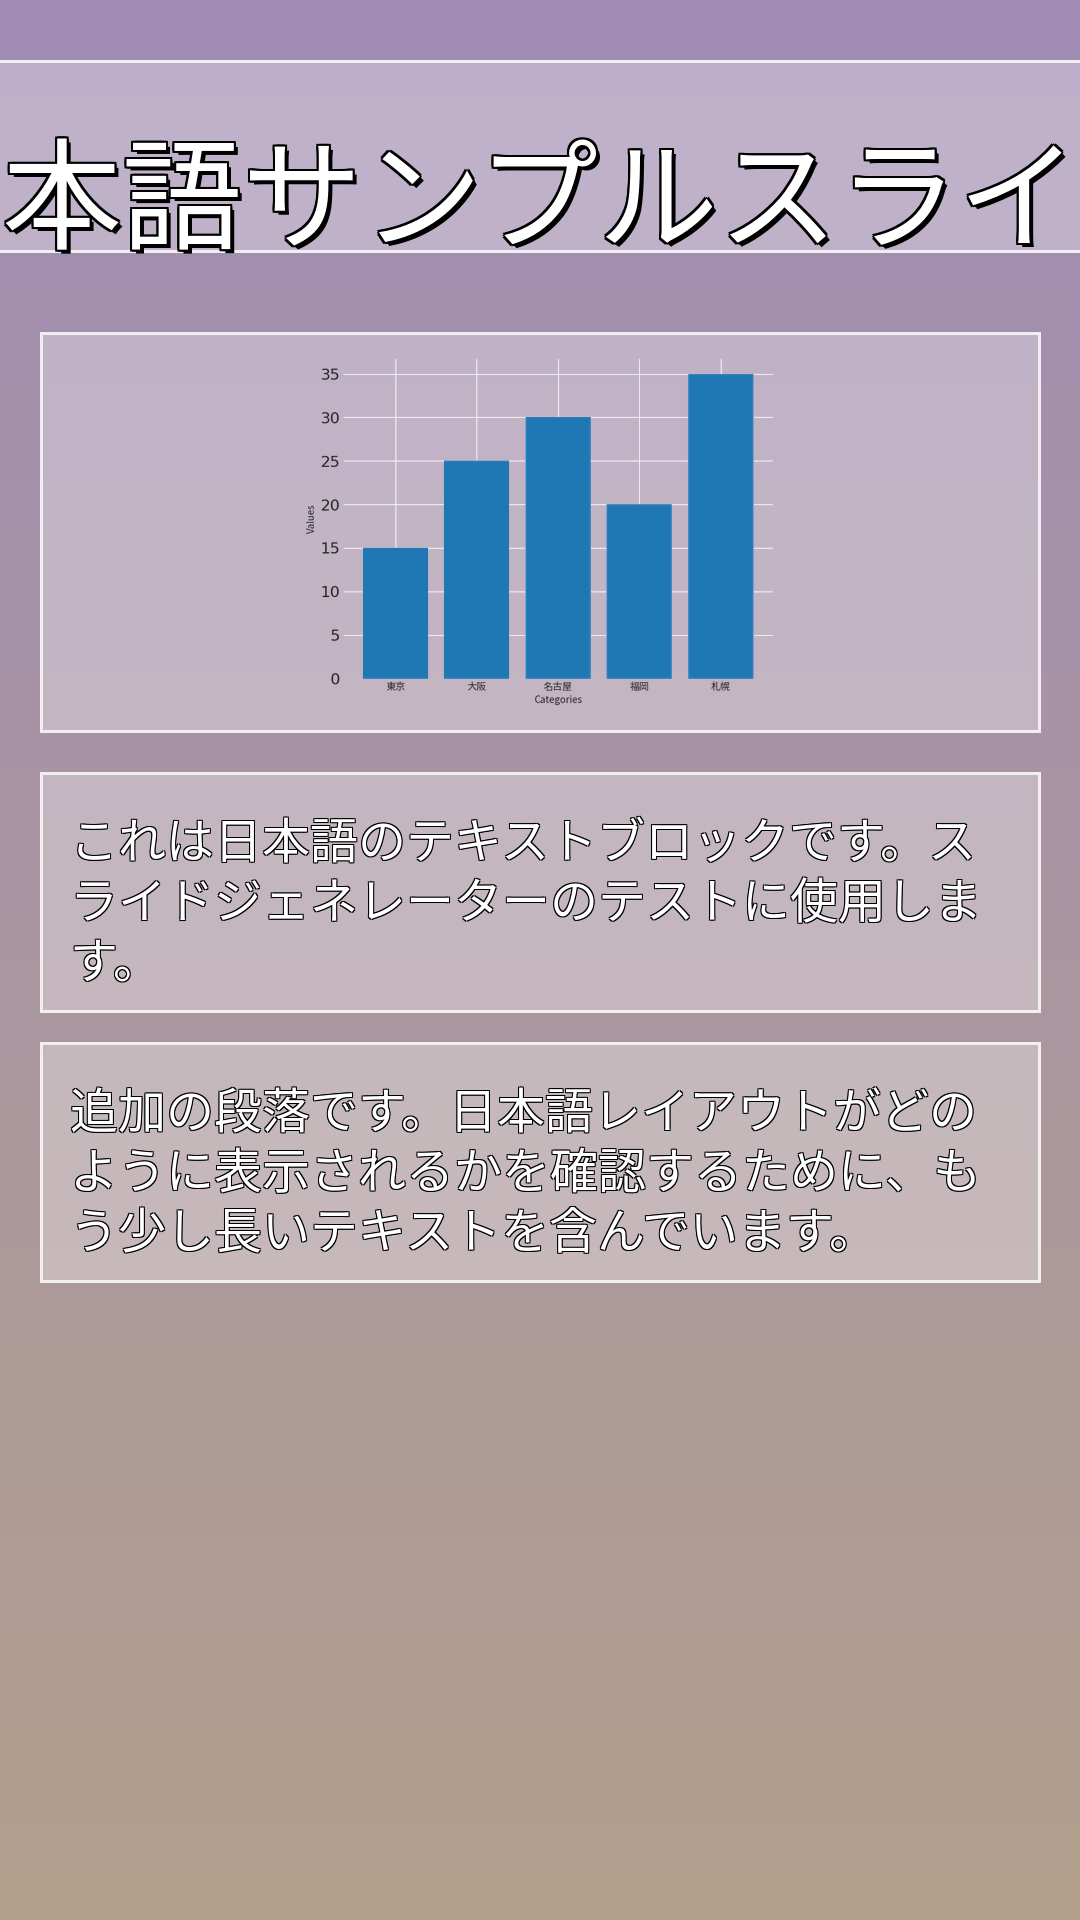
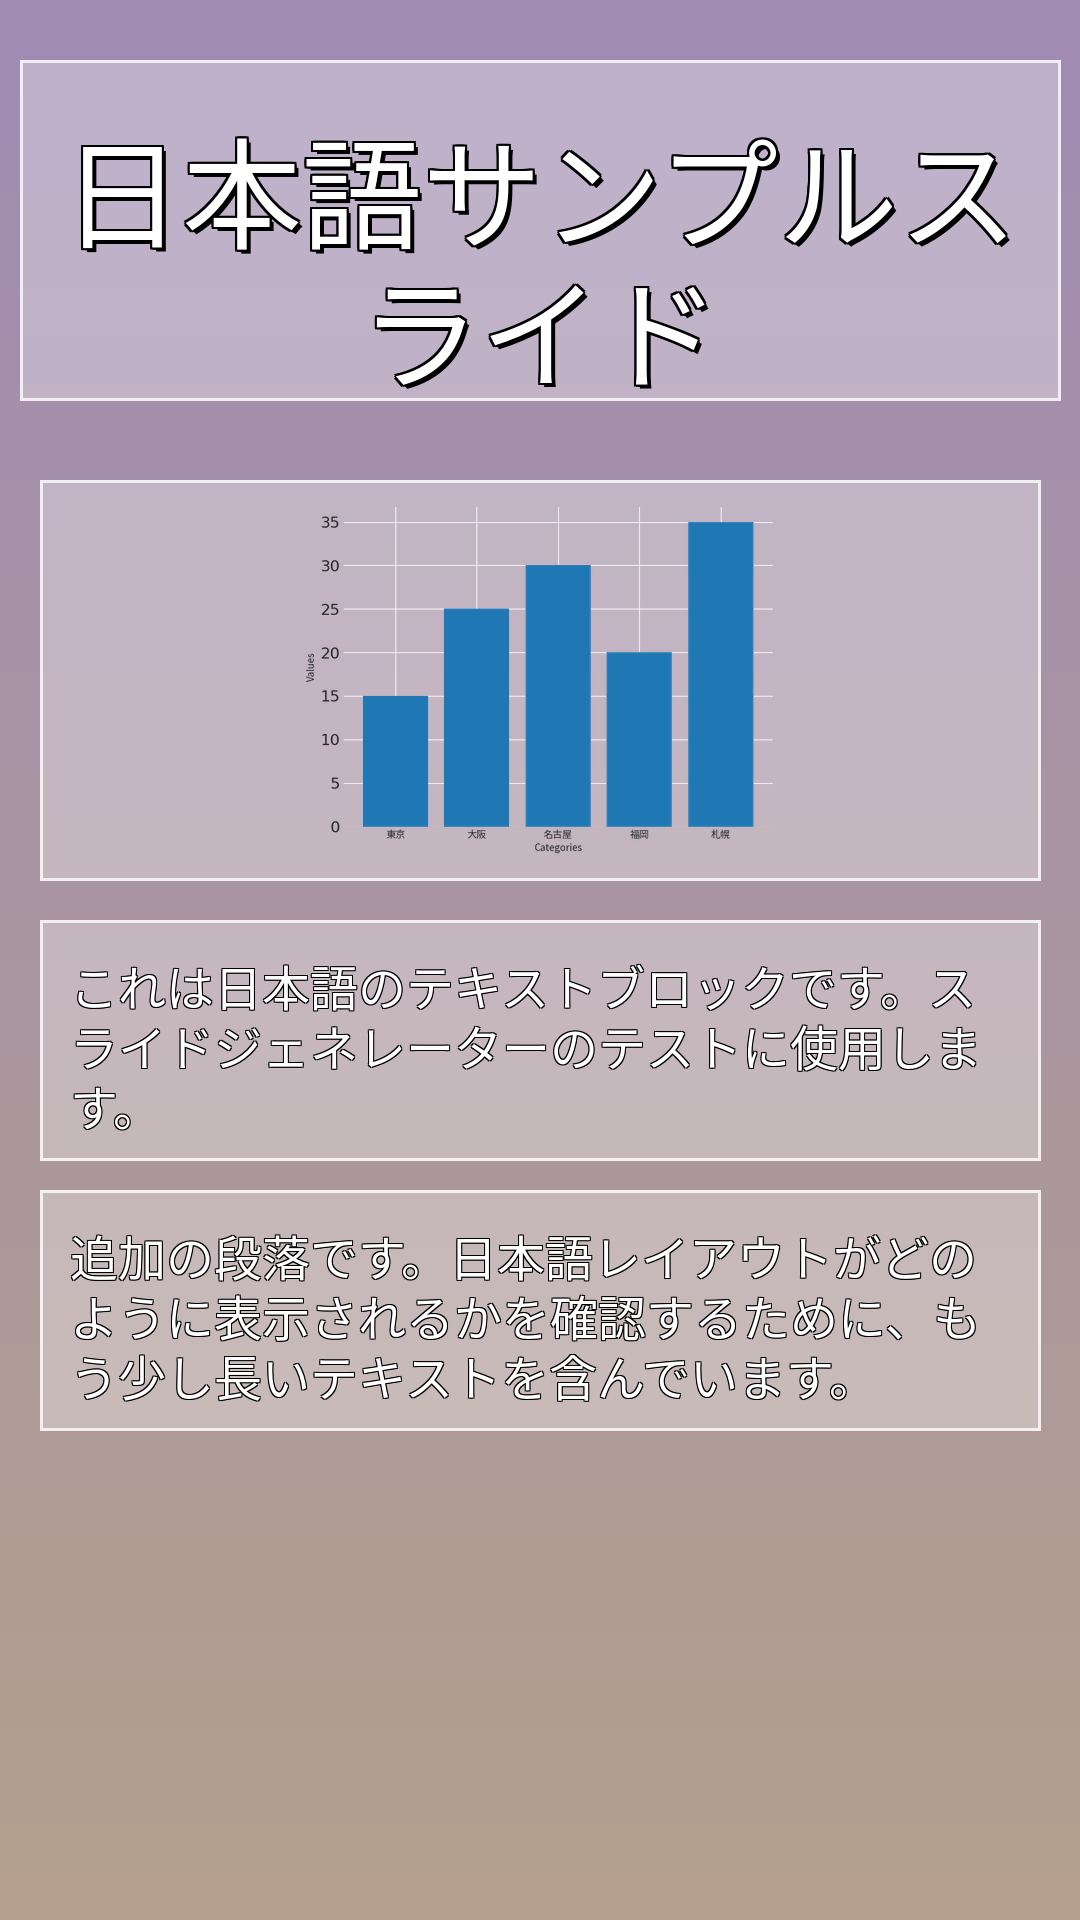
Enhance visual clarity and adaptability of vertical slide image generation, especially with varied background images
- Switched background image handling to prioritize aspect-ratio-correct, centered image overlays instead of blurred backgrounds
- Refined glassmorphism card rendering: background and border opacity now adapt based on presence of a background image for improved visibility and contrast
- Overhauled title rendering: robust multi-line wrapping with proper support for Japanese and English locales, including per-line centering and consistent padding
- Updated all card components (title, graph, text, table) to use new adaptive glassmorphism styling by receiving `has_image_background` context
- Regenerated sample output images to illustrate new rendering logic and visual improvements

diff --git a/src/layout.py b/src/layout.py
@@ -244,49 +244,107 @@ class VerticalLayoutEngine:
                     continue
         return ImageFont.load_default()
     
-    def draw_glassmorphism_rect(self, draw: ImageDraw.Draw, x1: int, y1: int, x2: int, y2: int):
+    def draw_glassmorphism_rect(self, draw: ImageDraw.Draw, x1: int, y1: int, x2: int, y2: int, has_image_bg: bool = False):
         """Draw glassmorphism effect rectangle"""
-        # Semi-transparent white background - more opaque
-        draw.rectangle([x1, y1, x2, y2], fill=(255, 255, 255, 80))
-        # Border - stronger
-        draw.rectangle([x1, y1, x2, y2], outline=(255, 255, 255, 200), width=3)
+        if has_image_bg:
+            # More opaque background for image backgrounds
+            draw.rectangle([x1, y1, x2, y2], fill=(0, 0, 0, 120))
+            # Stronger border
+            draw.rectangle([x1, y1, x2, y2], outline=(255, 255, 255, 255), width=3)
+        else:
+            # Semi-transparent white background - more opaque
+            draw.rectangle([x1, y1, x2, y2], fill=(255, 255, 255, 80))
+            # Border - stronger
+            draw.rectangle([x1, y1, x2, y2], outline=(255, 255, 255, 200), width=3)
     
-    def draw_title_overlay(self, img: Image.Image, title: str):
+    def draw_title_overlay(self, img: Image.Image, title: str, has_image_bg: bool = False):
         """Draw title with overlay effect"""
         draw = ImageDraw.Draw(img, 'RGBA')
         
-        # Calculate text size
-        bbox = draw.textbbox((0, 0), title, font=self.title_font)
-        text_width = bbox[2] - bbox[0]
-        text_height = bbox[3] - bbox[1]
+        # Wrap title if too long
+        max_width = self.width - 120  # Leave margin for padding
+        lines = []
+        
+        # Check if title contains Japanese characters
+        import re
+        has_japanese = bool(re.search(r'[\u3040-\u309F\u30A0-\u30FF\u4E00-\u9FAF]', title))
+        
+        if has_japanese:
+            # Character-based wrapping for Japanese
+            current_line = ""
+            for char in title:
+                test_line = current_line + char
+                bbox = draw.textbbox((0, 0), test_line, font=self.title_font)
+                if bbox[2] - bbox[0] > max_width:
+                    if current_line:
+                        lines.append(current_line)
+                        current_line = char
+                    else:
+                        lines.append(char)
+                else:
+                    current_line = test_line
+            
+            if current_line:
+                lines.append(current_line)
+        else:
+            # Word-based wrapping for English
+            words = title.split(' ')
+            current_line = ""
+            
+            for word in words:
+                test_line = current_line + (' ' if current_line else '') + word
+                bbox = draw.textbbox((0, 0), test_line, font=self.title_font)
+                if bbox[2] - bbox[0] > max_width:
+                    if current_line:
+                        lines.append(current_line)
+                        current_line = word
+                    else:
+                        lines.append(word)
+                else:
+                    current_line = test_line
+            
+            if current_line:
+                lines.append(current_line)
+        
+        # Calculate total height
+        line_height = 140
+        total_height = len(lines) * line_height - 20  # Reduce spacing between lines
         
         # Center position
-        x = (self.width - text_width) // 2
         y = self.current_y
+        padding = 40
         
         # Draw glassmorphism background
-        padding = 40
         self.draw_glassmorphism_rect(
             draw,
-            x - padding,
+            60 - padding,
             y - padding,
-            x + text_width + padding,
-            y + text_height + padding
+            self.width - 60 + padding,
+            y + total_height + padding,
+            has_image_bg
         )
         
         # Draw text with shadow and outline using Pilmoji
         with Pilmoji(img) as pilmoji:
-            # Black outline
-            for dx, dy in [(-2,-2), (-2,2), (2,-2), (2,2), (-2,0), (2,0), (0,-2), (0,2)]:
-                pilmoji.text((x + dx, y + dy), title, fill=(0, 0, 0, 255), font=self.title_font)
-            # Shadow
-            pilmoji.text((x + 4, y + 4), title, fill=(0, 0, 0, 180), font=self.title_font)
-            # Main text
-            pilmoji.text((x, y), title, fill=(255, 255, 255), font=self.title_font)
+            text_y = y
+            for line in lines:
+                # Calculate line width for centering
+                bbox = draw.textbbox((0, 0), line, font=self.title_font)
+                line_width = bbox[2] - bbox[0]
+                x = (self.width - line_width) // 2
+                
+                # Black outline
+                for dx, dy in [(-2,-2), (-2,2), (2,-2), (2,2), (-2,0), (2,0), (0,-2), (0,2)]:
+                    pilmoji.text((x + dx, text_y + dy), line, fill=(0, 0, 0, 255), font=self.title_font)
+                # Shadow
+                pilmoji.text((x + 4, text_y + 4), line, fill=(0, 0, 0, 180), font=self.title_font)
+                # Main text
+                pilmoji.text((x, text_y), line, fill=(255, 255, 255), font=self.title_font)
+                text_y += line_height
         
-        self.current_y = y + text_height + padding * 2 + 40
+        self.current_y = y + total_height + padding * 2 + 40
     
-    def draw_graph_card(self, img: Image.Image, graph_img: Image.Image):
+    def draw_graph_card(self, img: Image.Image, graph_img: Image.Image, has_image_bg: bool = False):
         """Draw graph in a card with glassmorphism"""
         draw = ImageDraw.Draw(img, 'RGBA')
         
@@ -302,7 +360,8 @@ class VerticalLayoutEngine:
             card_x,
             card_y,
             card_x + card_width,
-            card_y + card_height
+            card_y + card_height,
+            has_image_bg
         )
         
         # Resize graph to fit card
@@ -326,7 +385,7 @@ class VerticalLayoutEngine:
         
         self.current_y = card_y + card_height + 40
     
-    def draw_text_cards(self, img: Image.Image, text_blocks: list):
+    def draw_text_cards(self, img: Image.Image, text_blocks: list, has_image_bg: bool = False):
         """Draw text blocks as individual cards"""
         draw = ImageDraw.Draw(img, 'RGBA')
         
@@ -364,7 +423,8 @@ class VerticalLayoutEngine:
                 card_x,
                 card_y,
                 card_x + card_width,
-                card_y + card_height
+                card_y + card_height,
+                has_image_bg
             )
             
             # Draw text with Pilmoji and outline
@@ -380,7 +440,7 @@ class VerticalLayoutEngine:
             
             self.current_y = card_y + card_height + 30
     
-    def draw_table_card(self, img: Image.Image, table: TableData):
+    def draw_table_card(self, img: Image.Image, table: TableData, has_image_bg: bool = False):
         """Draw table in a card"""
         draw = ImageDraw.Draw(img, 'RGBA')
         
@@ -399,7 +459,8 @@ class VerticalLayoutEngine:
             card_x,
             card_y,
             card_x + card_width,
-            card_y + card_height
+            card_y + card_height,
+            has_image_bg
         )
         
         # Table position within card

diff --git a/src/image_generator.py b/src/image_generator.py
@@ -103,16 +103,33 @@ def generate_vertical_slide_image(request: SlideRequest) -> bytes:
     # Create base image with vibrant gradient
     img = generate_gradient_background(width, height, vibrant=True)
     
-    # Create blurred background if image is provided
+    # Use image as clean background if provided
+    has_image_background = False
     if request.image:
         try:
             bg_img = download_image(request.image.url)
-            # Scale to cover and crop
-            bg_img = bg_img.resize((width, height), Image.Resampling.LANCZOS)
-            # Apply blur
-            bg_img = bg_img.filter(ImageFilter.GaussianBlur(radius=20))
-            # Blend with gradient (50% opacity)
-            img = Image.blend(img, bg_img, 0.5)
+            # Maintain aspect ratio - scale to fit width and center vertically
+            original_width, original_height = bg_img.size
+            aspect_ratio = original_width / original_height
+            
+            # Scale to fit width
+            new_width = width
+            new_height = int(width / aspect_ratio)
+            
+            # If scaled image is too short, scale to fit height instead
+            if new_height < height:
+                new_height = height
+                new_width = int(height * aspect_ratio)
+            
+            bg_img = bg_img.resize((new_width, new_height), Image.Resampling.LANCZOS)
+            
+            # Create base image and paste centered
+            img = generate_gradient_background(width, height, vibrant=True)
+            paste_x = (width - new_width) // 2
+            paste_y = (height - new_height) // 2
+            img.paste(bg_img, (paste_x, paste_y))
+            
+            has_image_background = True
         except:
             pass  # Use gradient only if image fails
     
@@ -121,22 +138,22 @@ def generate_vertical_slide_image(request: SlideRequest) -> bytes:
     
     # Draw title with glassmorphism effect
     if request.title:
-        layout.draw_title_overlay(img, request.title)
+        layout.draw_title_overlay(img, request.title, has_image_background)
     
     # Draw graph/data card if exists
     if request.graph:
         graph_renderer = GraphRenderer()
         graph_img = graph_renderer.render_graph(request.graph, vertical_format=True)
-        layout.draw_graph_card(img, graph_img)
+        layout.draw_graph_card(img, graph_img, has_image_background)
     
     # Draw text blocks as cards
     if request.textBlocks:
         text_blocks_text = [block.text for block in request.textBlocks]
-        layout.draw_text_cards(img, text_blocks_text)
+        layout.draw_text_cards(img, text_blocks_text, has_image_background)
     
     # Draw table as card
     if request.table:
-        layout.draw_table_card(img, request.table)
+        layout.draw_table_card(img, request.table, has_image_background)
     
     # Convert to bytes
     output = BytesIO()
